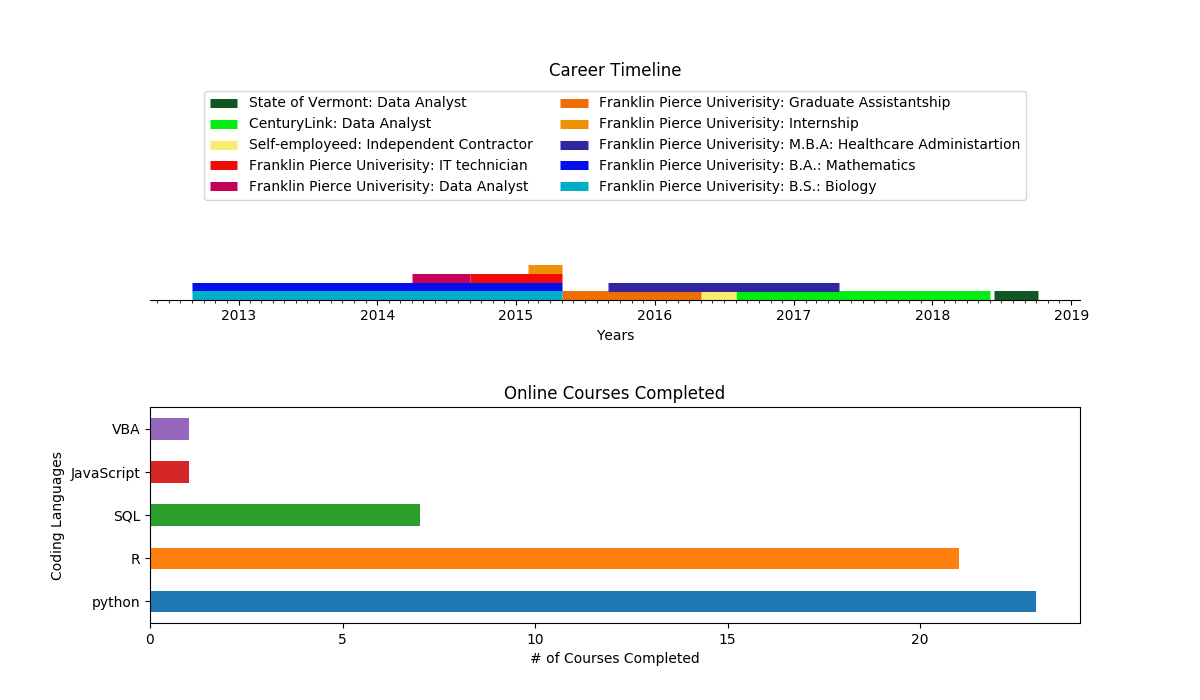
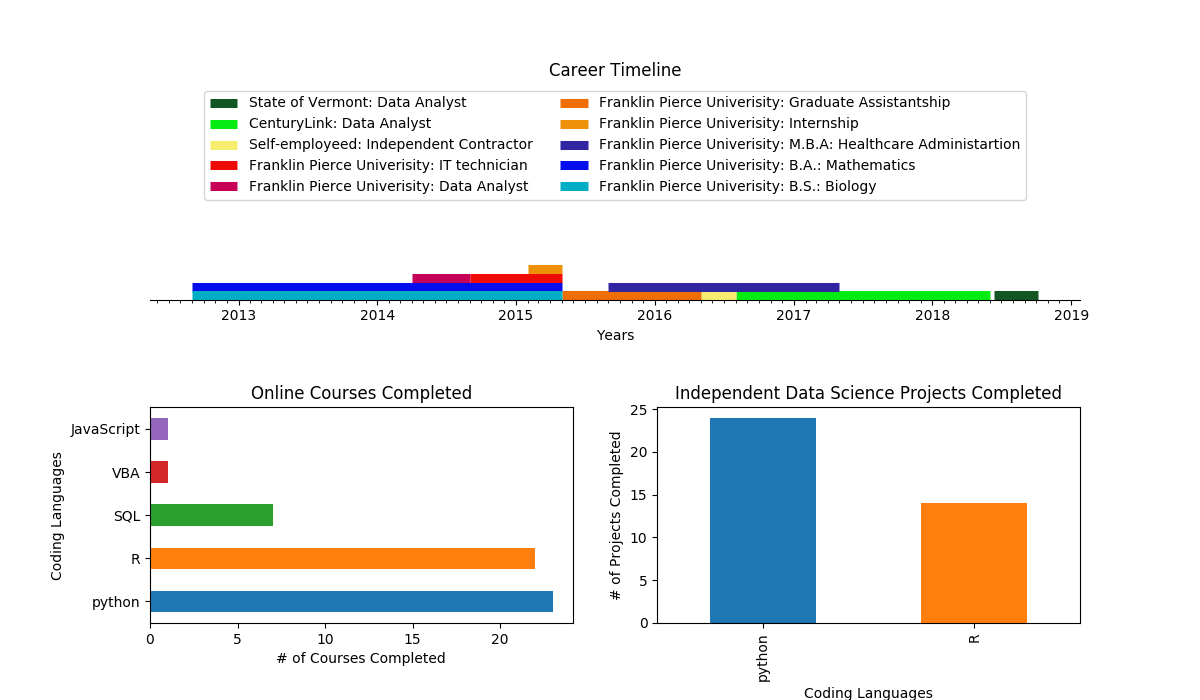
Add files via upload

diff --git a/pand_resume_v.0.0.7.py b/pand_resume_v.0.0.7.py
@@ -1,0 +1,56 @@
+from datetime import datetime
+import pandas as pd
+import matplotlib.pyplot as plt
+import matplotlib.dates as dt
+import matplotlib.dates as mdates
+
+df1 = pd.read_csv('/home/drew/Desktop/job_List.csv')
+df1.start = pd.to_datetime(df1.start).astype(datetime)
+df1.end = pd.to_datetime(df1.end).astype(datetime)
+df2 = pd.read_csv('/home/drew/Desktop/online_Courses_Completed.csv')
+df3 = pd.read_csv('/home/drew/Desktop/Data_Science_Projects.csv')
+lang_c1 = df2['language'].value_counts()
+lang_v1 = []
+for v, c in df2['language'].value_counts().iteritems():
+    lang_v1.append(v)
+lang_c2 = df3['language'].value_counts()
+lang_v2 = []
+for x, y in df3['language'].value_counts().iteritems():
+    lang_v2.append(x)
+fig = plt.figure(figsize=(12,7))
+fig.canvas.set_window_title('Visual Resume')
+years = mdates.YearLocator()   # every year
+months = mdates.MonthLocator()  # every month
+yearsFmt = mdates.DateFormatter('%Y')
+ax1 = fig.add_subplot(211)
+ax1.xaxis.set_major_locator(years)
+ax1.xaxis.set_major_formatter(yearsFmt)
+ax1.xaxis.set_minor_locator(months)
+ax1.xaxis.set_ticks_position('bottom')
+ax1.yaxis.set_ticks_position('left')
+ax1.spines['top'].set_visible(False)
+ax1.spines['right'].set_visible(False)
+ax1.spines['left'].set_visible(False)
+for i in range(len(df1)):
+    ax1 = plt.hlines(df1.loc[i, "yaxis"], dt.date2num(df1.loc[i, "start"]), dt.date2num(df1.loc[i, "end"]),
+                    colors=df1.loc[i, "color"], label=df1.loc[i,"company"] + ": " + df1.loc[i, "exp"], linewidth=6.5)
+ax1 = plt.ylim(0, 15)
+ax1 = plt.legend(loc="upper center", ncol=2)
+ax1 = plt.tick_params(bottom='on', left='off', labelleft='off', labelbottom='on')
+ax1 = plt.title('Career Timeline')
+ax1 = plt.xlabel("Years")
+ax2 = fig.add_subplot(223)
+pl_ax1 = lang_c1.plot(kind='barh')
+ax2 = pl_ax1.set_yticklabels(lang_v1, minor=False)
+ax2 = pl_ax1.set_title("Online Courses Completed")
+ax2 = pl_ax1.set_ylabel("Coding Languages")
+ax2 = pl_ax1.set_xlabel("# of Courses Completed")
+plt.subplots_adjust(left=None, bottom=None, right=None, top=None, wspace=None, hspace=.5)
+ax3 = fig.add_subplot(224)
+pl_ax2 = lang_c2.plot(kind='bar')
+ax3 = pl_ax2.set_xticklabels(lang_v2, minor=False)
+ax3 = pl_ax2.set_title("Independent Data Science Projects Completed")
+ax3 = pl_ax2.set_xlabel("Coding Languages")
+ax3 = pl_ax2.set_ylabel("# of Projects Completed")
+plt.savefig('visual_Resume')
+plt.show()
